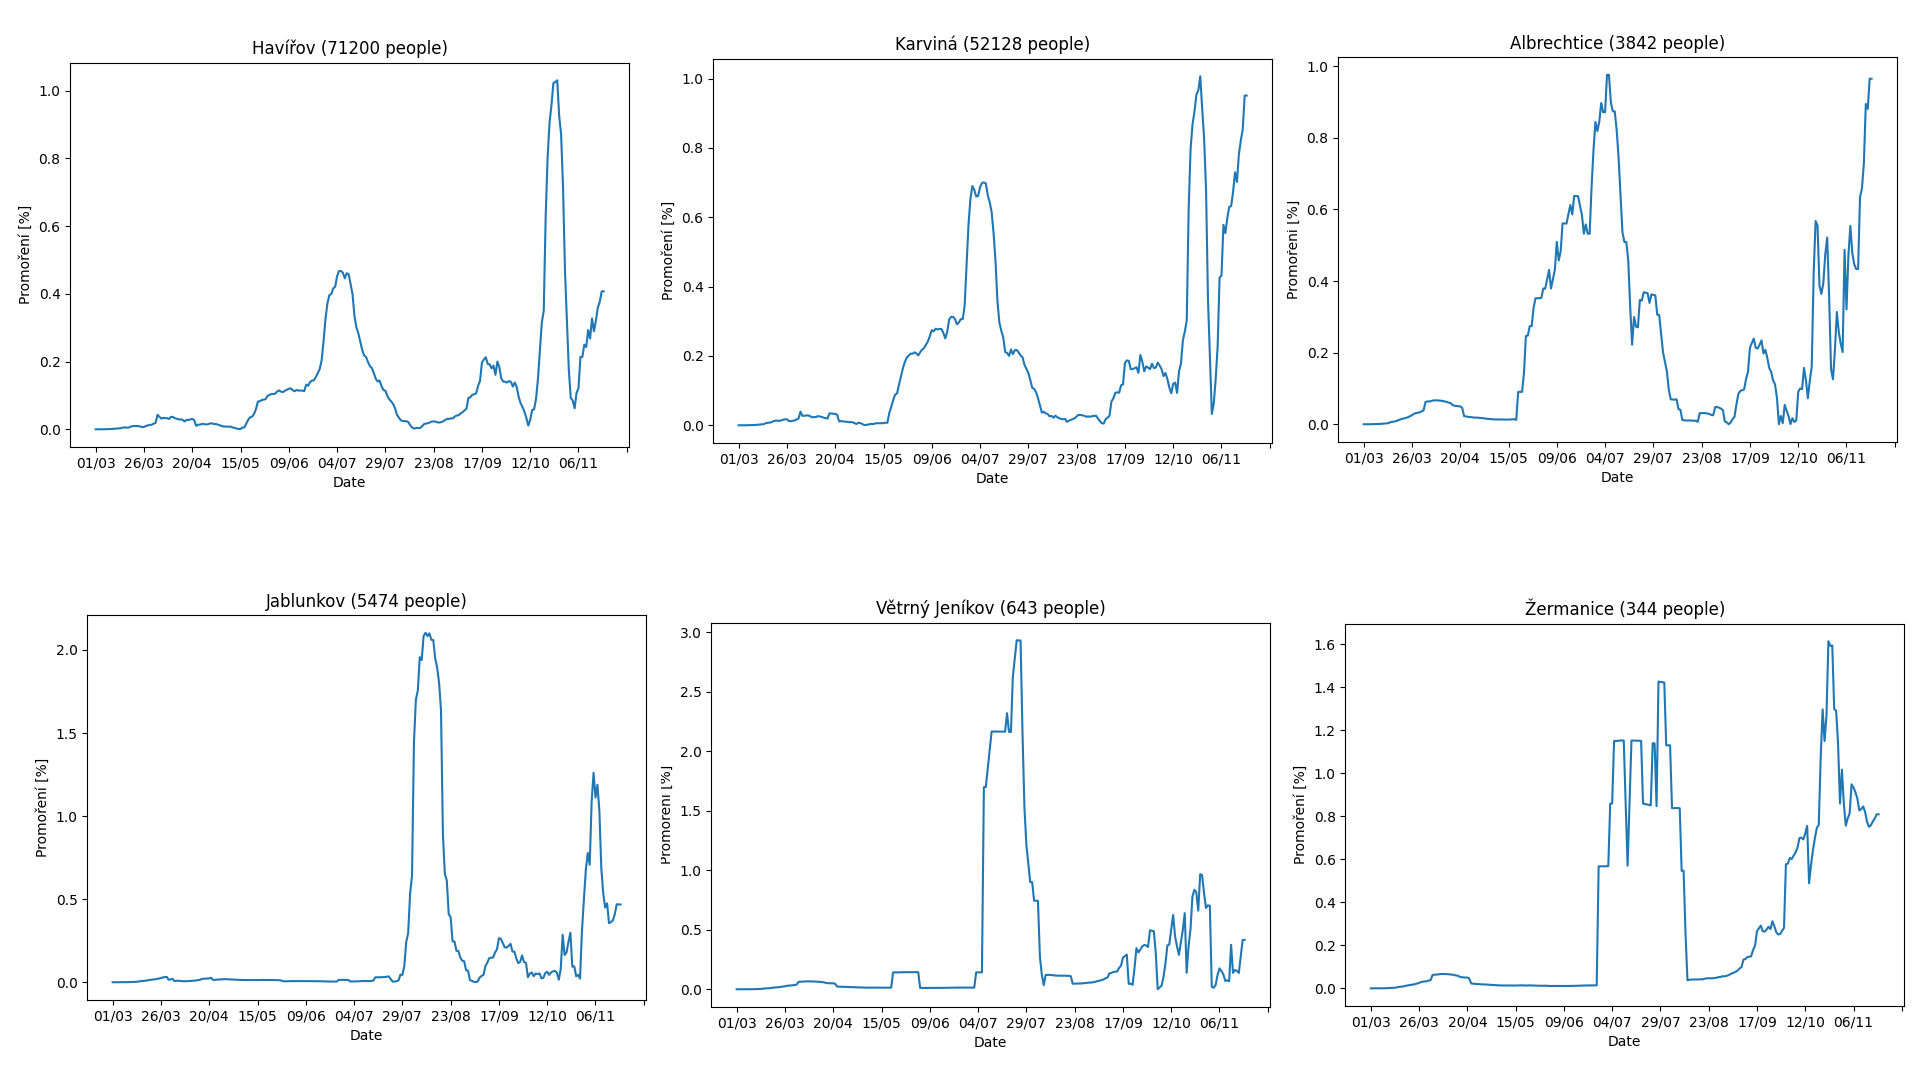
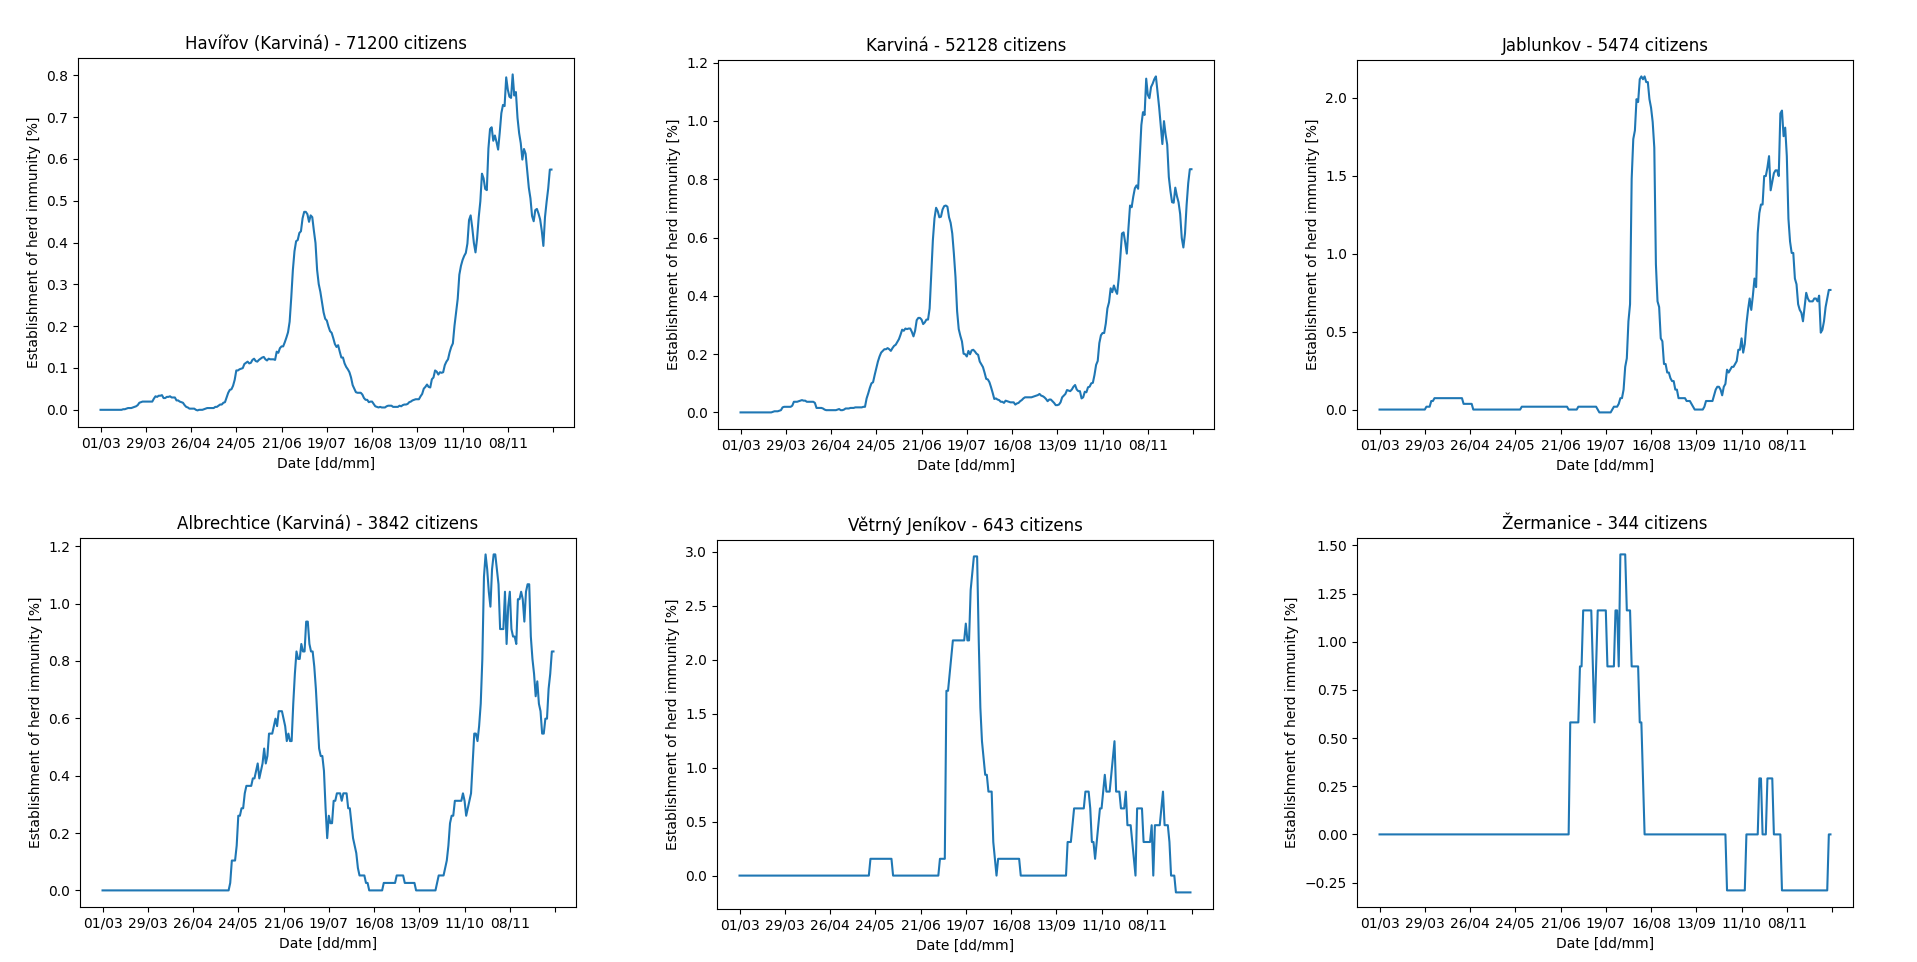
Bug fixes, small updates

diff --git a/programs/village_curve.py b/programs/village_curve.py
@@ -2,8 +2,9 @@
 
 Shows graph of active cases depending on time for selected village
 Variables to define:
-  - CASES_FILE is cases refactored file
   - VILLAGE_NAME is name of village to show graph
+  - CASES_FILE is cases refactored file
+  - POPULATION_FILE is refactored population file
 
 """
 
@@ -13,16 +14,41 @@ import matplotlib.pyplot as plt
 import json
 
 # Define constants
-CASES_FILE = "data/final/cases.json"
-VILLAGE_NAME = "Český Krumlov"
+VILLAGE_NAME = "Žermanice"
+
+CASES_FILE = "../data/final/cases.json"
+POPULATION_FILE = "../data/final/population.json"
 
 # Define variables
 time_x = []
 cases_y = []
+eohi_y = []
 
 # Load cases file
 with open(CASES_FILE, "r") as file:
     cases_content = json.load(file)
+
+with open(POPULATION_FILE, "r") as file:
+    population_content = json.load(file)
+
+
+# Functions
+def show_graph(y, label):
+    # Prepare graph
+    fig, ax = plt.subplots()
+    ax.plot(time_x, y)
+
+    # Show every 28th label
+    ax.xaxis.set_major_locator(ticker.MultipleLocator(28))
+
+    # Label axis and graph
+    plt.xlabel("Date [dd/mm]")
+    plt.ylabel(label)
+    plt.title(f"{village} - {population} citizens")
+
+    # Show graph and then exit app
+    plt.show()
+
 
 # For every region in cases file
 for region in cases_content:
@@ -32,9 +58,10 @@ for region in cases_content:
         for village in cases_content[region][district]:
             # Get village name without district in brackets
             real_name_village = village.split(" (")[0]
+            population = population_content[region][district][real_name_village]
 
             # If this village is selected village
-            if real_name_village == VILLAGE_NAME:
+            if real_name_village.lower() == VILLAGE_NAME.lower():
                 # Make time x array of values
                 for date in cases_content[region][district][village].keys():
                     split_date = date.split("-")
@@ -43,19 +70,8 @@ for region in cases_content:
                 # Make cases y array of values
                 for cases in cases_content[region][district][village].values():
                     cases_y.append(cases)
+                    eohi_y.append(cases / population* 100)
 
-                # Prepare graph
-                fig, ax = plt.subplots()
-                ax.plot(time_x, cases_y)
-
-                # Show every 28th label
-                ax.xaxis.set_major_locator(ticker.MultipleLocator(28))
-
-                # Label axis and graph
-                plt.xlabel("Date [dd/mm]")
-                plt.ylabel("Active cases")
-                plt.title(f"{village} - Covid19 active cases")
-
-                # Show graph and then exit app
-                plt.show()
+                show_graph(cases_y, "Active cases")
+                show_graph(eohi_y, "Establishment of herd immunity [%]")
                 exit()

diff --git a/programs/average_categories.py b/programs/average_categories.py
@@ -5,8 +5,8 @@ Variables to define:
   - CASES_FILE is cases file
   - POPULATION_FILE is population file
   - AVERAGE_FILE is file with average curve
-  - MAX_POPULATION is max population of village to be selected as anomaly
-  - MIN_POPULATION is min population of village to be selected as anomaly
+  - CATEGORIES - define categories with number of citizens
+  - CATEGORIES - define labels of categories
 
 """
 
@@ -44,8 +44,10 @@ for region in cases_content:
             real_name_village = village.split(" (")[0]
             population = population_content[region][district][real_name_village]
 
+            # Find the correct category
             for num, i in enumerate(CATEGORIES[:-1]):
                 if i < population < CATEGORIES[num+1]:
+                    # If it is not initialised
                     if CATEGORIES_LABELS[num] not in dictionary:
                         dictionary[CATEGORIES_LABELS[num]] = {
                             "x": [],
@@ -53,6 +55,7 @@ for region in cases_content:
                             "count": 0
                         }
 
+                    # Get values
                     x = dictionary[CATEGORIES_LABELS[num]]["x"]
                     y = dictionary[CATEGORIES_LABELS[num]]["y"]
                     dictionary[CATEGORIES_LABELS[num]]["count"] += 1
@@ -70,15 +73,12 @@ for region in cases_content:
                     # Y axis
                     for num2, cases in enumerate(current_cases.values()):
                         # Second, third, ... village
-                        # try:
                         if len(y) == len(current_cases.values()):
-                            y[num2] = (y[num2] + cases / population * 100) / 2
+                            y[num2] = (y[num2] + ((cases / population) * 100)) / 2
 
-                        else:
-                            y.append(cases) # / population * 100)
                         # First village
-                        # except IndexError:
-
+                        else:
+                            y.append((cases / population) * 100)
 
                     break
 
@@ -93,7 +93,16 @@ for num, label in enumerate(dictionary.keys()):
     # Label axis and graph
     plt.xlabel("Date [dd/mm]")
     plt.ylabel("Establishment of herd immunity [%]")
-    plt.title(f"{dictionary[label]['count']} {label} - between {CATEGORIES[num]} and {CATEGORIES[num+1]} people")
+
+    before_text = str(dictionary[label]["count"]) + " "
+    if dictionary[label]["count"] == 1:
+        before_text = ""
+
+    after_text = f"between {CATEGORIES[num]} and {CATEGORIES[num+1]} citizens"
+    if CATEGORIES[num+1] == math.inf:
+        after_text = f"more than {CATEGORIES[num]} citizens"
+
+    plt.title(f"{before_text}{label} - {after_text}")
 
     # Show graph
     plt.show()

diff --git a/programs/anomaly_searcher.py b/programs/anomaly_searcher.py
@@ -16,9 +16,9 @@ import matplotlib.pyplot as plt
 import json
 
 # Define constants
-CASES_FILE = "data/final/cases.json"
-POPULATION_FILE = "data/final/population.json"
-AVERAGE_FILE = "data/final/average.json"
+CASES_FILE = "../data/final/cases.json"
+POPULATION_FILE = "../data/final/population.json"
+AVERAGE_FILE = "../data/final/average.json"
 
 MAX_POPULATION = 3000000
 MIN_POPULATION = 1000
@@ -69,7 +69,7 @@ for region in cases_content:
                 # Label axis and graph
                 plt.xlabel("Date [dd/mm]")
                 plt.ylabel("Establishment of herd immunity [%]")
-                plt.title(f"{real_name_village} - {population} people")
+                plt.title(f"{real_name_village} - {population} citizens")
 
                 # Show graph
                 plt.show()

diff --git a/programs/average_curve.py b/programs/average_curve.py
@@ -14,9 +14,9 @@ import matplotlib.pyplot as plt
 import json
 
 # General constants
-CASES_FILE = "data/final/cases.json"
-POPULATION_FILE = "data/final/population.json"
-OUTPUT_FILE = "data/final/average.json"
+CASES_FILE = "../data/final/cases.json"
+POPULATION_FILE = "../data/final/population.json"
+OUTPUT_FILE = "../data/final/average.json"
 
 # Load files
 with open(CASES_FILE, "r") as file:

diff --git a/generators/population_refactorer.py b/generators/population_refactorer.py
@@ -14,9 +14,9 @@ import json
 import os
 
 # Define constants
-DIR_INPUT = "data/pohyb19"
-FILENAME_OUTPUT = "data/final/population.json"
-FILENAME_REGIONS = "data/regions.json"
+DIR_INPUT = "../data/pohyb19"
+FILENAME_OUTPUT = "../data/final/population.json"
+FILENAME_REGIONS = "../data/regions.json"
 
 # Define constants for Excel files
 YEAR = "Rok"

diff --git a/generators/cases_refactorer.py b/generators/cases_refactorer.py
@@ -12,8 +12,8 @@ import json
 import csv
 
 # Define constants
-FILENAME_INPUT = "data/covid19/obec.csv"
-FILENAME_OUTPUT = "data/final/cases.json"
+FILENAME_INPUT = "../data/covid19/obec.csv"
+FILENAME_OUTPUT = "../data/final/cases.json"
 
 # Define variables
 refactored = {}

diff --git a/generators/area_codes.py b/generators/area_codes.py
@@ -12,8 +12,8 @@ import json
 import csv
 
 # Define constants
-FILENAME_INPUT = "data/covid19/obec.csv"
-FILENAME_OUTPUT = "data/regions.json"
+FILENAME_INPUT = "../data/covid19/obec.csv"
+FILENAME_OUTPUT = "../data/regions.json"
 
 # Define variables
 dictionary = {}

diff --git a/README.md b/README.md
@@ -1,2 +1,2 @@
 # covid19-cr
-Statistics of covid19 in Czech republic
+Statistics of Covid-19 in Czech republic
